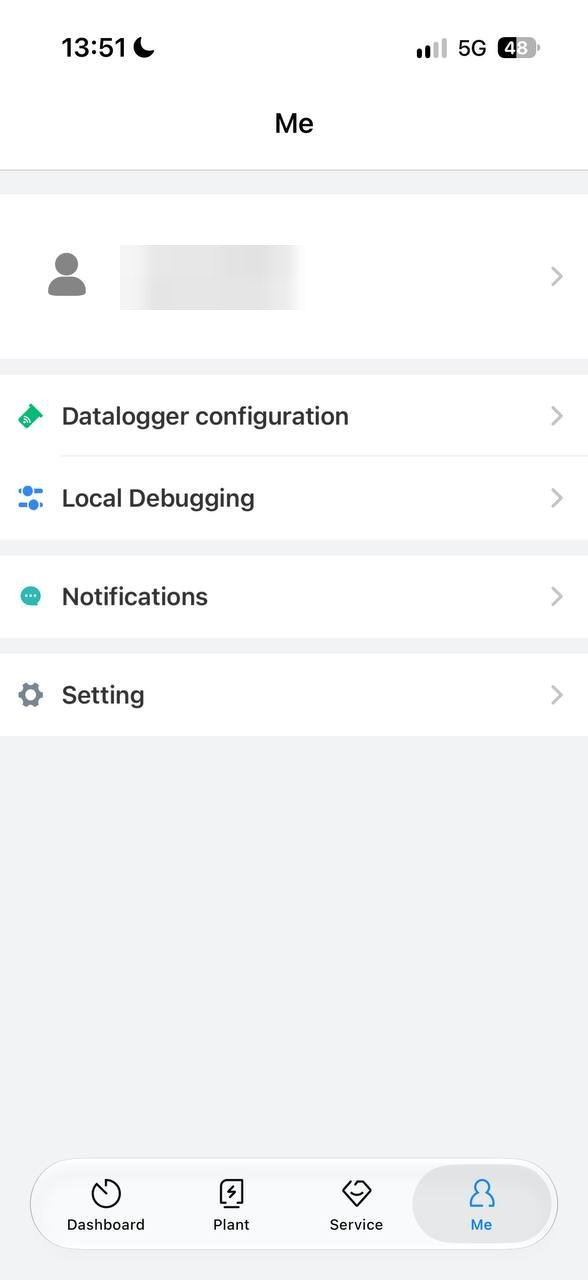
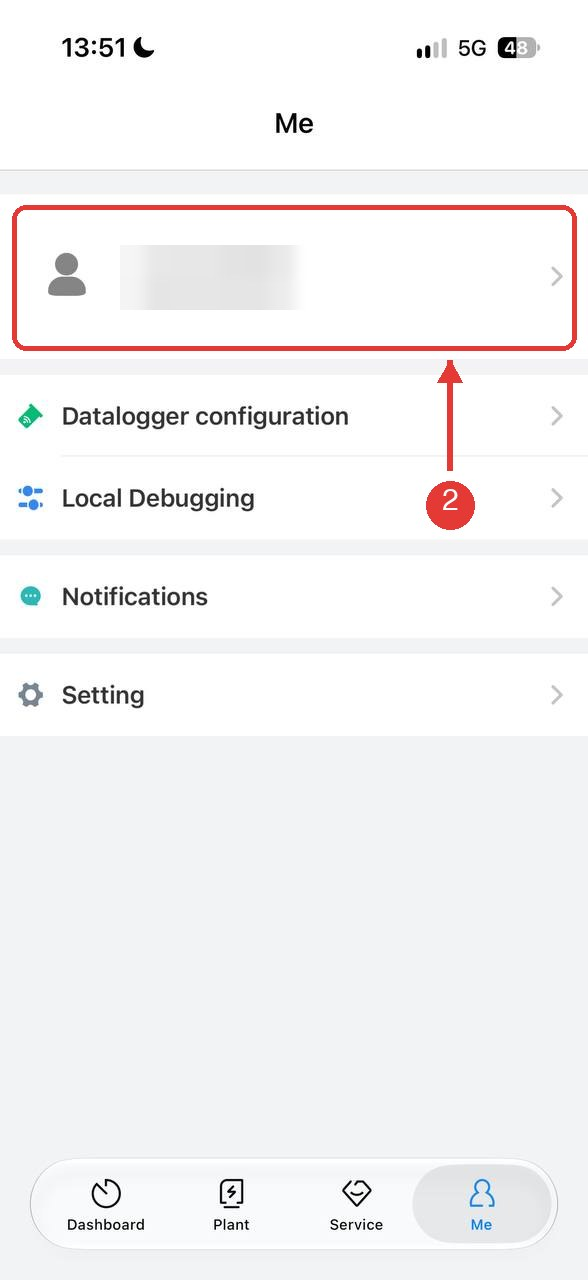
docs: annotate token screenshots with arrows and step numbers

Changed region(s): [[0.0, 0.1562, 1.0, 0.4375]]

diff --git a/README.md b/README.md
@@ -34,12 +34,13 @@ The last four tools change the state of your inverter. Only enable them for an a
 
 The token is issued in the **ShinePhone** mobile app (the same app you use to monitor the plant). No developer registration is needed.
 
-1. Open ShinePhone and log in with your Growatt account. Tap **Me** in the bottom bar.
+1. Open ShinePhone, log in with your Growatt account and tap **Me** in the bottom bar.
 2. On the **Me** screen, tap your username at the top.
 3. In the profile, tap **API Token** (last row).
-4. Tap the copy icon next to the token. Make sure **Use Status** is switched on, otherwise the API rejects the token.
+4. Tap the copy icon next to the token value.
+5. Make sure **Use Status** is switched on, otherwise the API rejects the token.
 
-| 1. Dashboard → Me | 2. Tap your username | 3. Tap API Token | 4. Copy the token |
+| Step 1 | Step 2 | Step 3 | Steps 4–5 |
 |---|---|---|---|
 | ![Dashboard](docs/images/1-dashboard.jpg) | ![Me screen](docs/images/2-me.jpg) | ![Profile](docs/images/3-profile.jpg) | ![API Token](docs/images/4-api-token.jpg) |
 
